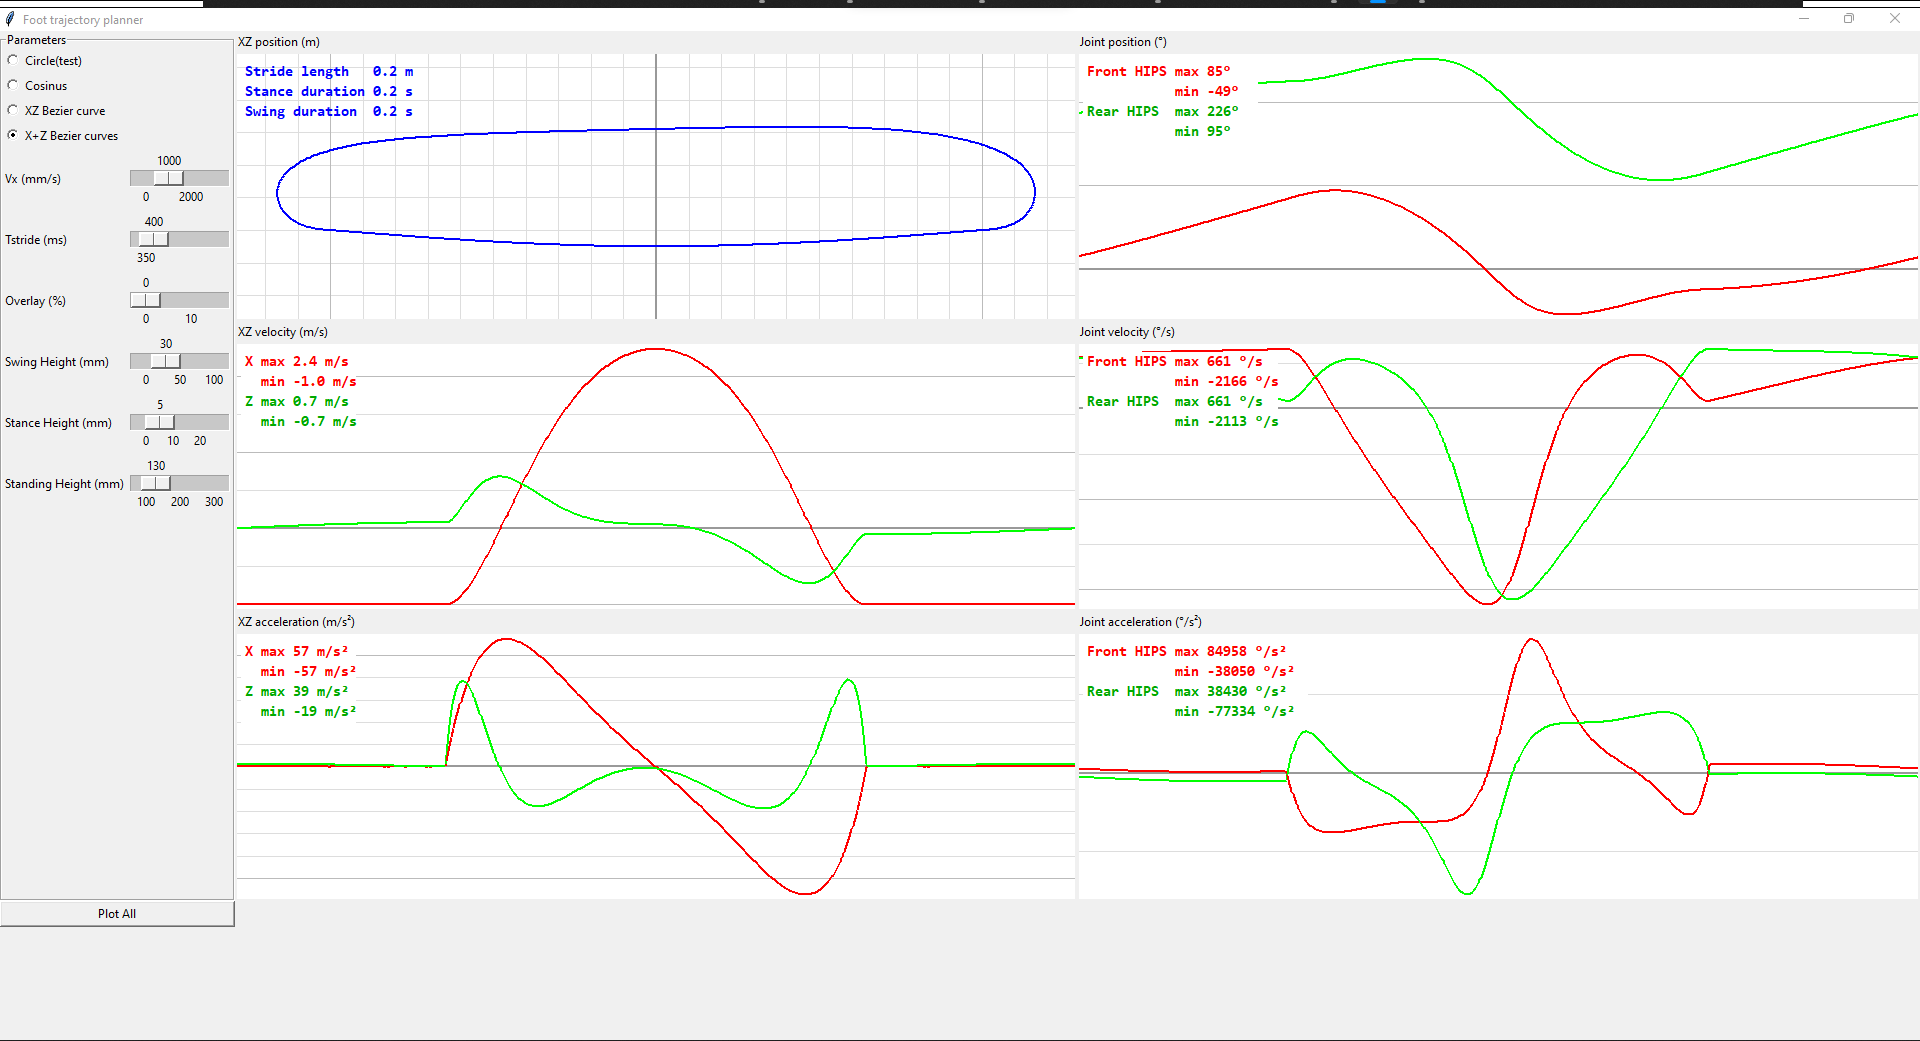
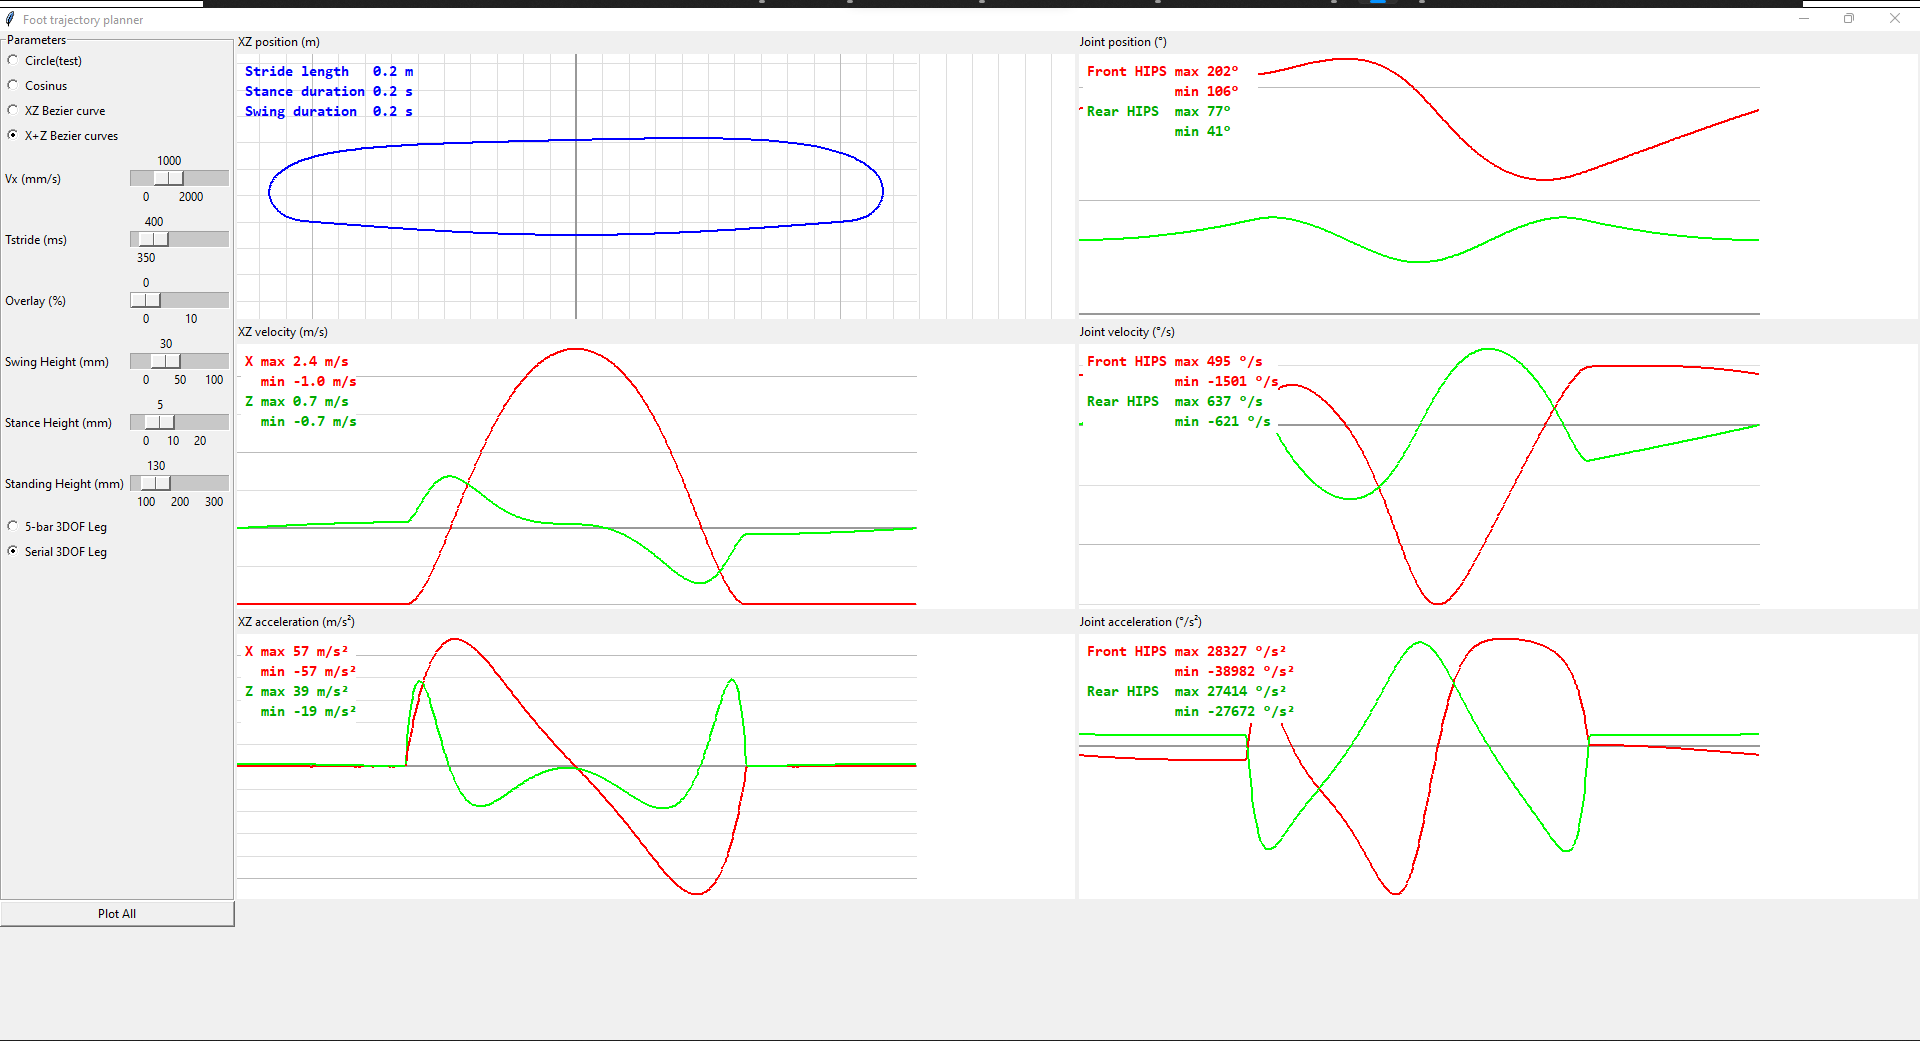
two iks

diff --git a/01-Tool/foot_trajectory_planner.py b/01-Tool/foot_trajectory_planner.py
@@ -113,6 +113,16 @@ class gui:
 		self.scales["Z0"].set(130)
 		self.row += 1
 
+		# radio button
+		leg_name = ["5-bar 3DOF Leg","Serial 3DOF Leg"]
+		leg_value = ["5-bar","serial"]
+		self.variables["Leg"] = StringVar()
+		self.variables["Leg"].set(leg_value[0])
+		for i in range(2):
+			self.radio["Leg"+str(i)] = Radiobutton(self.lf_inputs,variable=self.variables["Leg"],text=leg_name[i],value=leg_value[i],command=self.update)
+			self.radio["Leg"+str(i)].grid(column = 0, row = self.row, sticky='w')
+			self.row += 1
+
 		self.row = 0
 	
 		self.lf_graphs.columnconfigure(0, weight=1)
@@ -386,7 +396,11 @@ class gui:
 			foot_position[1,0] =  0.0
 			foot_position[2,0] =  self.z_dataset[current]
 			#print(foot_position)
-			leg_joint_angles = ik.ik_conventional_leg(foot_position) # A,B
+			leg_joint_angles = None
+			if self.variables["Leg"].get() == '5-bar':
+				leg_joint_angles = ik.ik_5bar_leg(foot_position) # A,B
+			if self.variables["Leg"].get() == 'serial':
+				leg_joint_angles = ik.ik_serial_leg(foot_position) # A,B
 			final_joint_angles = np.degrees(leg_joint_angles)
 			self.coxa_dataset.append(final_joint_angles[2,0])
 			self.front_hips_dataset.append(final_joint_angles[0,0])

diff --git a/01-Tool/ik.py b/01-Tool/ik.py
@@ -104,8 +104,8 @@ def ik_5bar_leg(foot_position): # input 3x1 vector  (x,y,z,1) in METERS, where x
 	return np.array((A1,A2,A3)).reshape((3,1))
 
 
-# return 3x1 vector (S1 (front hip servo), S2 (rear hip  servo), S3 (coxa servo)) in RADIANS
-def ik_conventional_leg(foot_position): # input 3x1 vector  (x,y,z,1) in METERS, where x axis pointing forward, y axis pointing int or exterior, and z axis pointing upward
+# return 3x1 vector (S1 (hip servo), S2 (knee servo), S3 (coxa servo)) in RADIANS
+def ik_serial_leg(foot_position): # input 3x1 vector  (x,y,z,1) in METERS, where x axis pointing forward, y axis pointing int or exterior, and z axis pointing upward
 	log("foot_position:\n"+str(foot_position))
 	# coxa to foot distance
 	CF = math.sqrt((foot_position[1,0]+tiger_geometry.Lc)**2+foot_position[2,0]**2)

diff --git a/01-Tool/tiger_geometry.py b/01-Tool/tiger_geometry.py
@@ -1,10 +1,7 @@
-#felin_geometry.py
+#tiger_geometry.py
 
-# Felin 2022
-# 12-DOF with 5-bar legs
-
-# Front Hip to Rear Hip distance = 62mm
-H2H_distance = 0.062 #m
+# Tiger 2022
+# 12-DOF
 
 # Coxa Length = 60mm
 Lc = 0.060 #m
